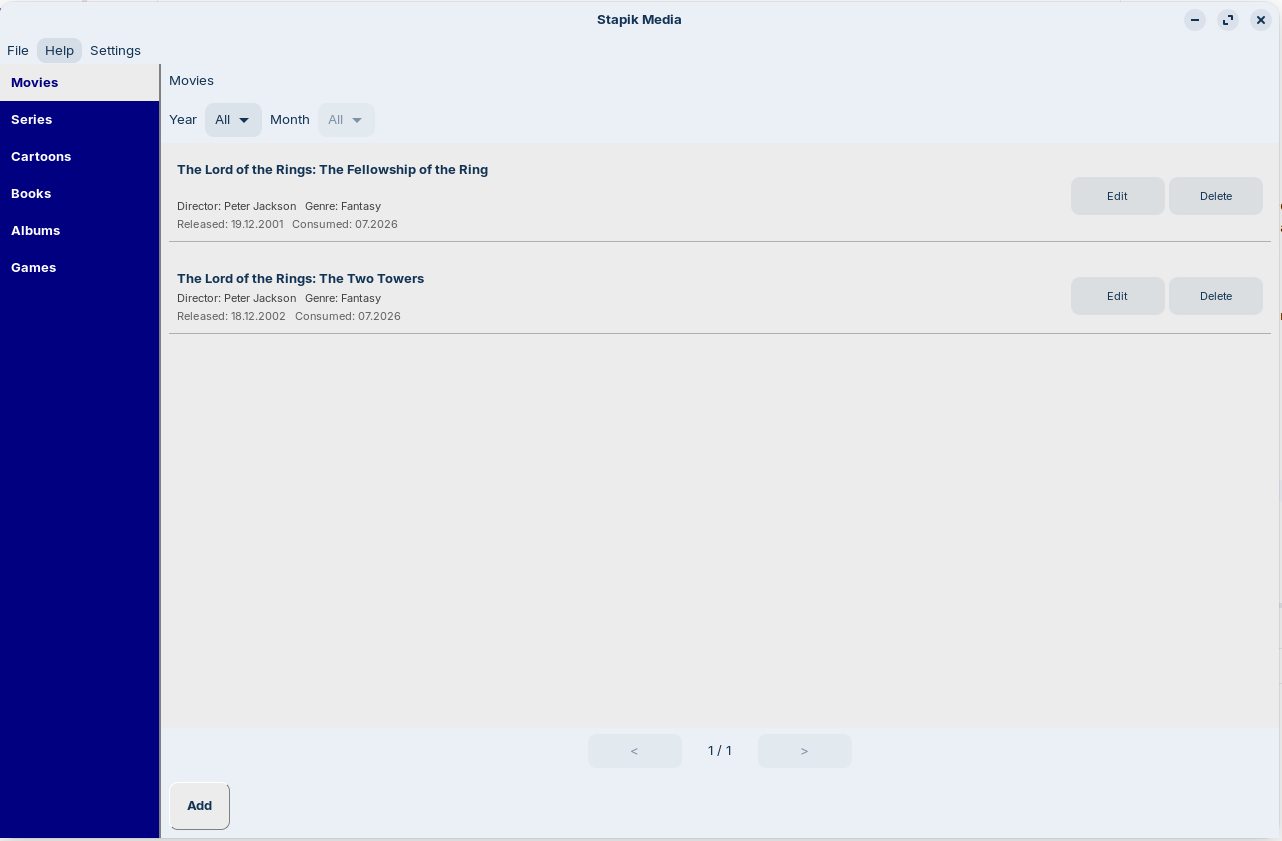
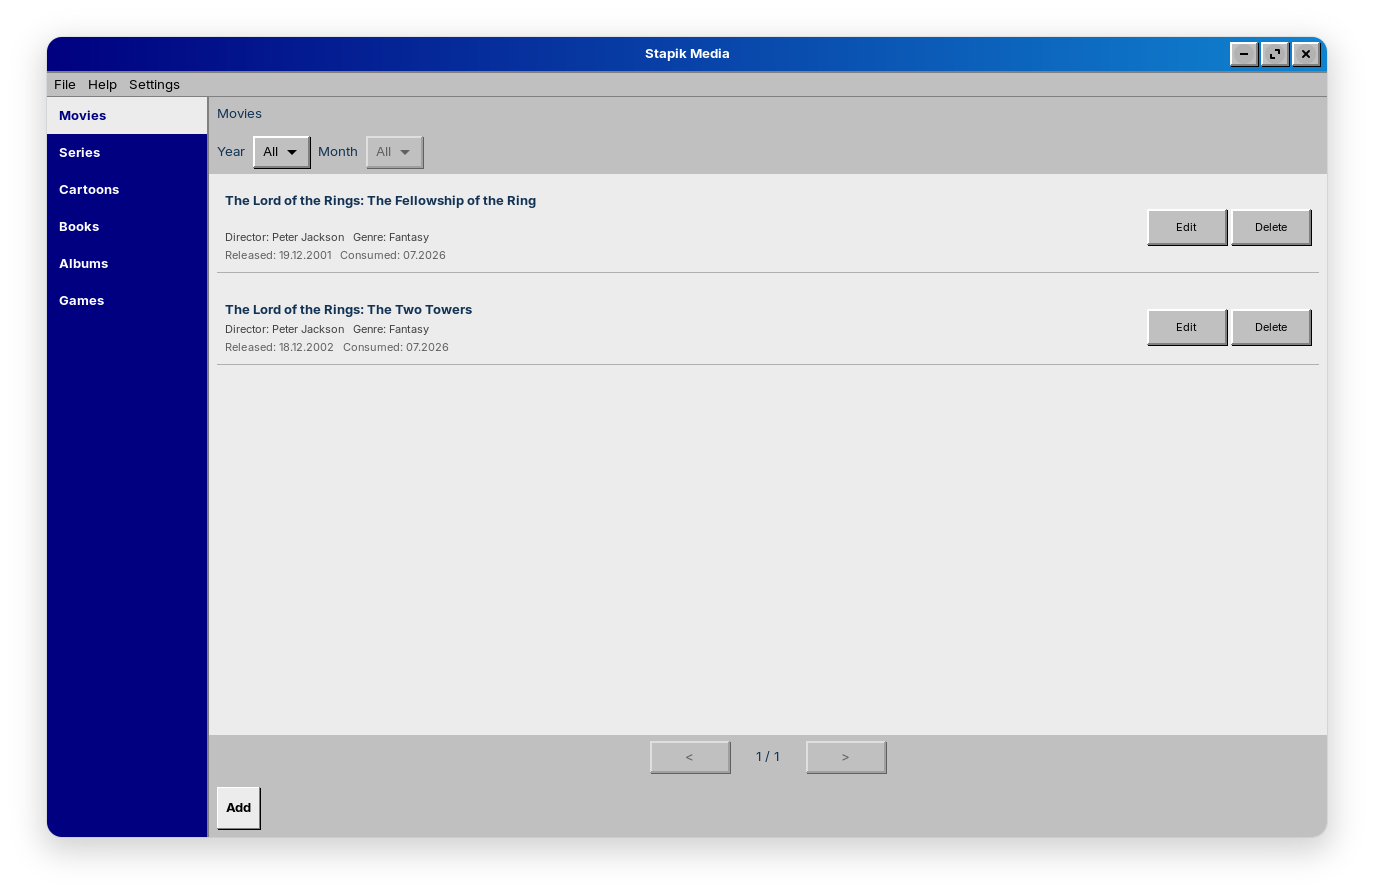
Update README.

diff --git a/README.md b/README.md
@@ -6,16 +6,17 @@ A desktop media-tracking application for Linux, written in C++20 using GTK4/gtkm
 
 ## Features
 
-- **Category sidebar** - browse your entries by type: Movies, Series, Cartoons, Books, Albums, Games
-- **Media entries** - add, edit and delete entries, with fields tailored to each category (director/genre for movies and series, author/genre/audiobook for books, performer/publisher/genre for albums, studio/publisher/platform for games)
-- **Release date with adjustable precision** - store a full date, a month and year, or just a year, depending on how much you actually know about older titles
+- **Category sidebar** - browse your entries by type: Movies, Series, Cartoons, Books, Albums, Games.
+- **Media entries** - add, edit and delete entries, with fields tailored to each category (director/genre for movies and series, author/genre/audiobook for books, performer/publisher/genre for albums, studio/publisher/platform for games).
+- **Release date with adjustable precision** - store a full date, a month and year, or just a year, depending on how much you actually know about older titles.
 - **Consumption date** - track the month and year you watched/read/listened/played each entry, defaulting to the current month and year when adding a new one
-- **Filtering** - narrow the list down by consumption year, and optionally by month within that year
-- **Pagination** - entries are shown 20 per page
-- **Cloud sync** - save and load data via an external API (compatible with a self-hosted server), with automatic conflict resolution based on timestamps
-- **Multilingual UI** - Polish, English and German interface with instant switching
-- **Auto-save** - data saved locally after every change
-- **Retro aesthetic** — classic look with raised buttons, blue navigation bar and grey cells
+- **Filtering** - narrow the list down by consumption year, and optionally by month within that year.
+- **Pagination** - entries are shown 20 per page.
+- **Cloud sync** - save and load data via an external API (compatible with a self-hosted server), with automatic conflict resolution based on timestamps.
+- **Multilingual UI** - Polish, English and German interface with instant switching.
+- **Auto-save** - data saved locally after every change.
+- **Retro aesthetic** — classic look with raised buttons, blue navigation bar and grey cells.
+- **Three themes** - Classic, Modern and Classic Pink, switchable live from the menu.
 
 ## Dependencies
 
@@ -96,21 +97,28 @@ Either way, your media data, cloud config and language preference remain at `~/.
 
 ## Cloud Sync
 
-The app supports synchronization via a self-hosted API server. Go to **File → Connect**, enter the server URL and API key.
+The app supports synchronization via [Stapik Cloud](https://github.com/Stapik-Group/stapik-cloud) — the same server and protocol used by Stapik Calendar. Go to **File → Connect**, enter the server URL and API key. If a connection is already configured, the app reconnects automatically on startup.
 
 Once connected, the app compares the local file and the cloud copy using a `lastUpdate` timestamp and keeps whichever one is newer, overwriting the other **as a whole document**. There is no field-level or entry-level merging — if both copies changed since the last sync, the older one is fully replaced.
 
-Data is saved locally after every change, and the app also attempts to push it to the cloud right away. If the cloud is unreachable at that moment, the change stays saved locally and the app quietly retries on the next save — no data is lost, but the cloud copy will lag behind until the next successful write. You can also trigger a sync manually from **File → Sync**.
+Data is saved locally after every change, and the app also attempts to push it to the cloud right away. Writes are optimistic-concurrency-checked: if another device saved a newer version in the meantime, the write is rejected, the server's copy is fetched, and the app retries once against that copy before falling back to accepting the server's version. If the cloud is unreachable at that moment, the change stays saved locally and the app quietly retries on the next save — no data is lost, but the cloud copy will lag behind until the next successful write. You can also trigger a sync manually from **File → Sync**.
 
-**Caution for multi-device use:** since conflict resolution is whole-document and last-write-wins, editing the app offline on two different machines before either one reconnects can cause one set of changes to be silently discarded. If you use the app on more than one device, make sure to sync (or at least go online) after each editing session to avoid overwriting your own changes.
+**Caution for multi-device use:** since conflict resolution is whole-document, editing the schedule offline on two different machines before either one reconnects can still cause one set of changes to be discarded. Stapik Cloud keeps a version history of every write, so a discarded document isn't gone permanently, but the app itself doesn't yet expose a way to browse or restore old versions. If you use the app on more than one device, make sure to sync (or at least go online) after each editing session to avoid overwriting your own changes.
 
-The API must expose two endpoints:
-- `GET /read?filename=media.json` — returns `{ "content": "..." }`
-- `POST /write` — accepts `{ "filename": "media.json", "content": "..." }`
+The app talks to the Stapik Cloud `/documents/{slotKey}` endpoint (slot key `planner.json`), authenticated via an `x-api-key` header. See the [Stapik Cloud API reference](https://github.com/Stapik-Group/stapik-cloud) for details.
+
+If you're upgrading from an app version that used the older, incompatible cloud protocol, the app detects this automatically on first launch and clears the saved connection — you'll need to reconnect once via **File → Connect**.
 
 ## Data Storage
 
 Media data is stored locally at `~/.local/share/stapikmedia/media.json`, wrapped with a `lastUpdate` timestamp used for cloud sync. Cloud config at `~/.local/share/stapikmedia/config.json`. Language preference at `~/.local/share/stapikmedia/locale.txt`.
+
+## Themes
+
+Switch between three themes from **Settings → Theme**: Classic (the original retro look), Modern (flat, minimal), and Classic Pink. The choice applies instantly and is remembered between launches.
+
+![Screenshot](screenshots/screenshot_2.png)
+![Screenshot](screenshots/screenshot_3.png)
 
 ## TODO
 
@@ -119,6 +127,7 @@ Media data is stored locally at `~/.local/share/stapikmedia/media.json`, wrapped
 - [x] Pagination
 - [x] Cloud sync with conflict resolution
 - [x] `.deb` package for easier distribution
+- [x] Multiple themes (Classic / Modern / Classic Pink)
 - [ ] Import from an existing spreadsheet (CSV/XLSX)
 - [ ] Entry search by title
 - [ ] Sort options (by title, release date, consumption date)
